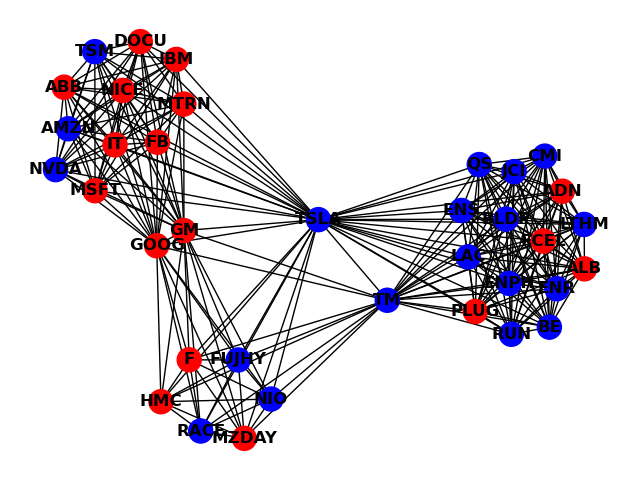
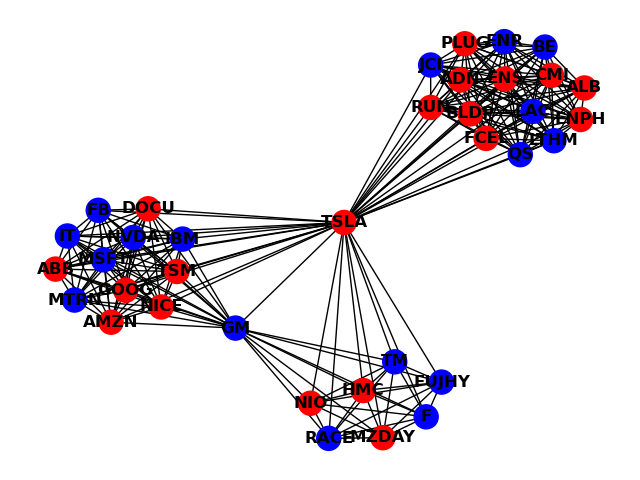
add comments

diff --git a/src/VoterModel.py b/src/VoterModel.py
@@ -11,19 +11,31 @@ import numpy as np
 
 class VoterModel:
     def __init__(self, graph_node_list: [list], price, opinions=None):
+        """
+        Initialize voter model object
+        :param graph_node_list: [list]
+        :param price: list that contains price of all the nodes
+        :param opinions: list that contains opinion of all the nodes
+        """
         self.graph = nx.Graph()
         for nodes in graph_node_list:
             temp_graph = nx.Graph()
             temp_graph.add_nodes_from(nodes)
             temp_graph.add_edges_from(itertools.combinations(nodes, 2))
             self.graph = nx.compose(self.graph, temp_graph)
+
         if opinions:
             self.set_initial_opinion(opinions)
         else:
+            # if opinion is None, we randomly set it
             self.random_opinions()
         self.set_initial_price(price)
 
-    def set_initial_price(self, price):
+    def set_initial_price(self, price) -> None:
+        """
+        Initialize price of beginning(t0)
+        :param price: a list that contains price of all the nodes
+        """
         for node in self.graph.nodes:
             if node in price:
                 self.graph.nodes[node]["price"] = [price[node]]
@@ -31,39 +43,66 @@ class VoterModel:
                 self.graph.nodes[node]["price"] = [None]
 
     def set_initial_opinion(self, opinions) -> None:
+        """
+        Set Initial opinion of t0
+        :param opinions: a list that contains opinion of all the nodes
+        :return: None
+        """
         for node, opinion in opinions:
             self.graph.nodes[node]["opinion"] = opinion
             self.graph.nodes[node]["opinion_history"] = [opinion]
 
     def random_opinions(self) -> None:
+        """
+        randomly set initial opinions
+        :return: None
+        """
         for node in self.graph.nodes:
             opinion = random.randint(0, 1)
             self.graph.nodes[node]["opinion"] = opinion
             self.graph.nodes[node]["opinion_history"] = [opinion]
 
-    def draw_opinion_graph(self):
+    def draw_opinion_graph(self) -> None:
+        """
+        Draw the figure of the graph
+        :return: None
+        """
         mapping = {0: "red", 1: "blue"}
         colors = [mapping[self.graph.nodes[n]['opinion']] for n in self.graph.nodes()]
         nx.draw(self.graph, with_labels=True, node_color=colors, font_weight='bold')
         plt.show()
 
-    def iterate(self, n, individual_returns: dict, market_returns: dict, betas: dict, sigmas: dict):
+    def iterate(self, n, individual_returns: dict, market_returns: dict, betas: dict, sigmas: dict) -> None:
+        """
+        Iterate for n times, for both of voter model simulation and brownian motion
+        :param n: int
+        :param individual_returns: a dictionary of individual return of each stock
+        :param market_returns: a dictionary of of market returns of each stock
+        :param betas: a dictionary of of beta of each stock
+        :param sigmas: a dictionary of of sigma of each stock
+        :return: None
+        """
         for i in range(1, n+1):
             for node in self.graph.nodes:
                 neighbors = list(self.graph.neighbors(node))
                 self.graph.nodes[node]["opinion"] = \
-                    self.graph.nodes[random.choice(list(neighbors))]["opinion_history"][-1]
-                self.graph.nodes[node]["opinion_history"].append(self.graph.nodes[node]["opinion"])
+                    self.graph.nodes[random.choice(neighbors)]["opinion_history"][-1]
                 if self.graph.nodes[node]["opinion"]:
                     market_r = abs(market_returns[node])
                 else:
                     market_r = -abs(market_returns[node])
                 current_price = self.graph.nodes[node]["price"][0] * exp(
-                    individual_returns[node] + market_r * betas[node]) * i - sigmas[node] * \
+                    individual_returns[node] + market_r * betas[node]) - sigmas[node] * \
                     np.random.normal(0, i, 1)[0]
                 self.graph.nodes[node]["price"].append(current_price)
+            for node in self.graph.nodes:
+                self.graph.nodes[node]["opinion_history"].append(self.graph.nodes[node]["opinion"])
 
-    def show_price_history(self):
+    def show_price_history(self) -> None:
+        """
+        Print out stock price over time
+        :return: None
+        """
         for node in self.graph.nodes:
             prices = self.graph.nodes[node]["price"]
             print("\n{:10s}".format(node), end='')
